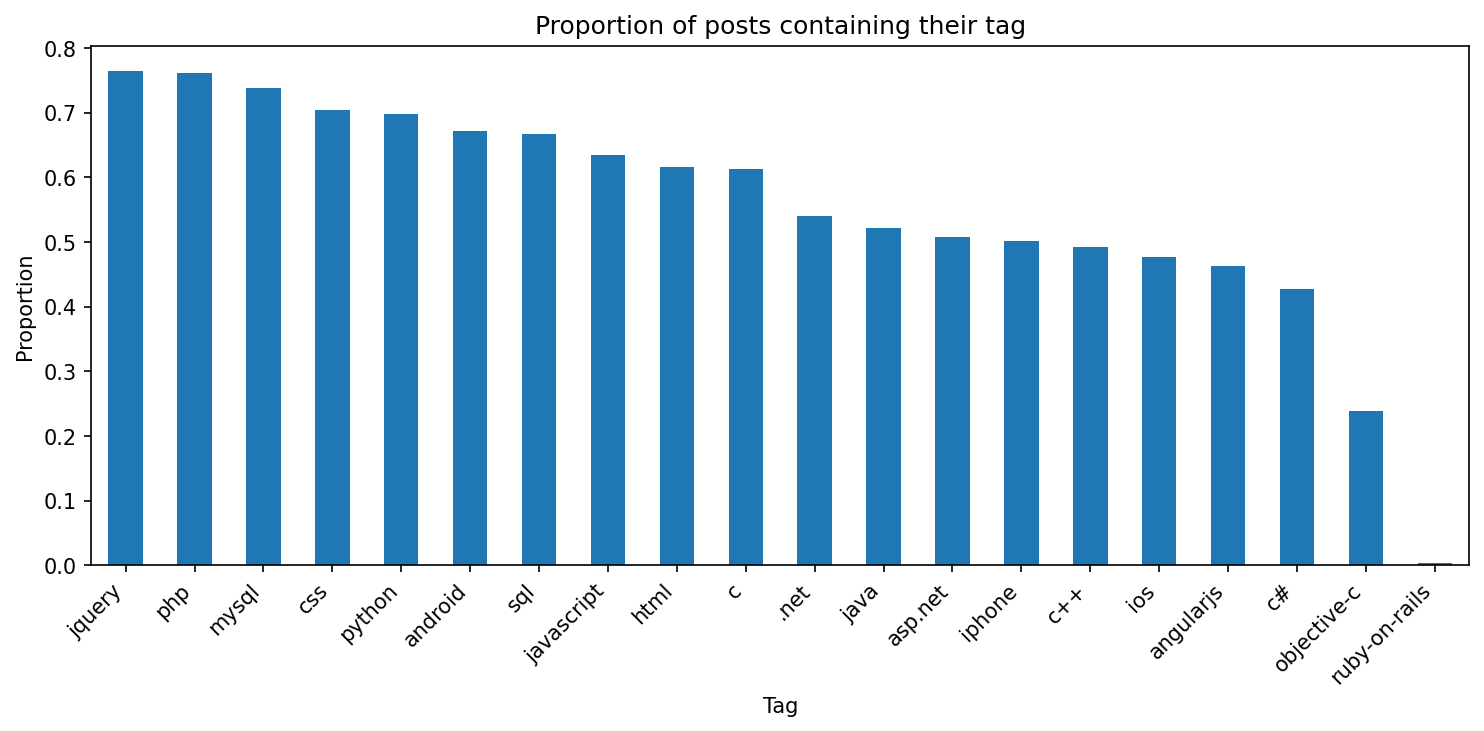
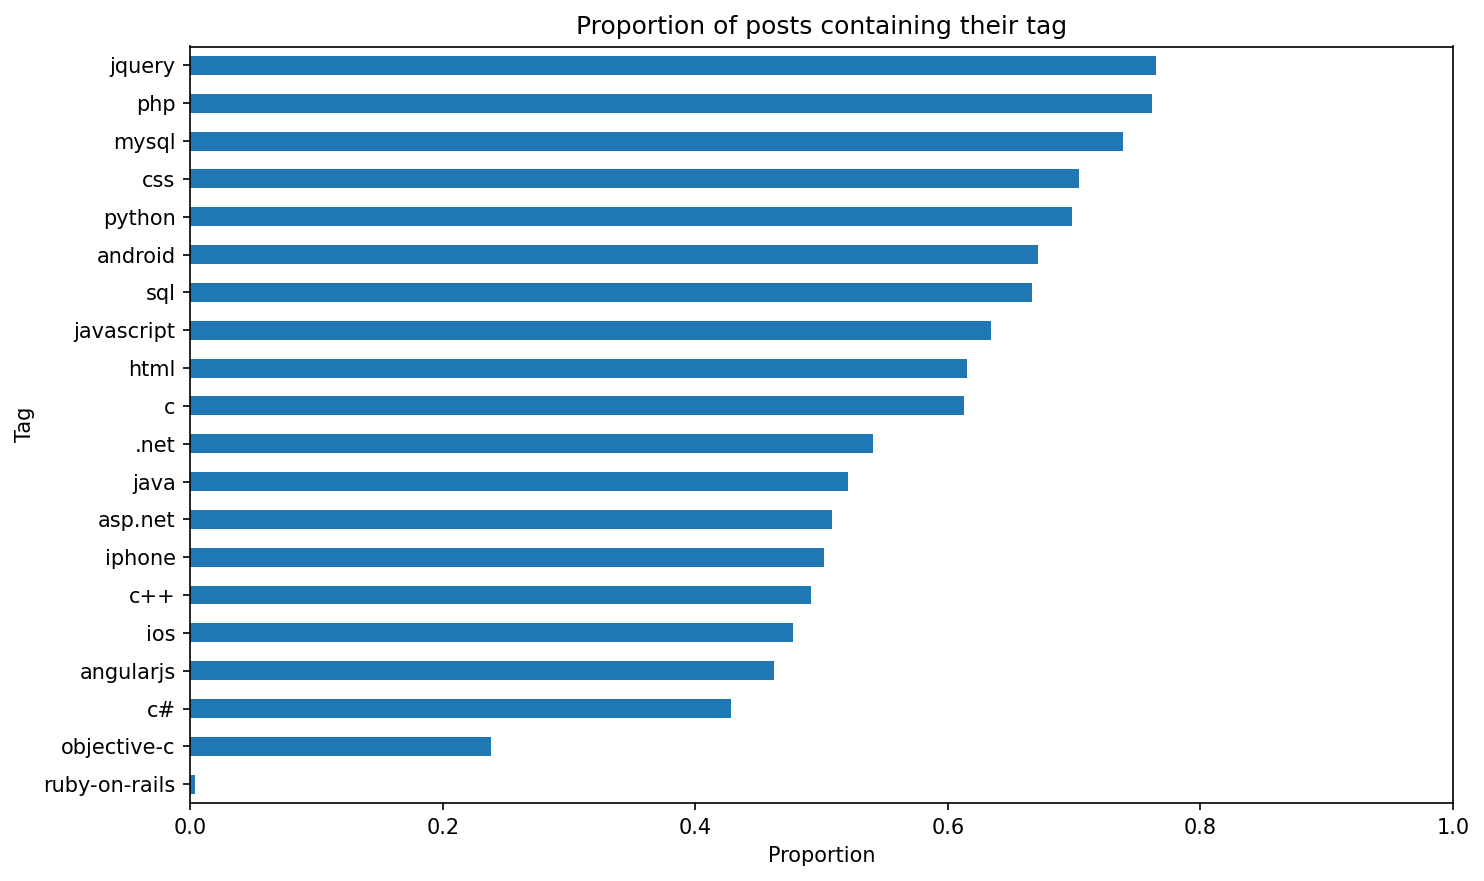
Moved to horizontal bars

diff --git a/0_statistics.py b/0_statistics.py
@@ -89,12 +89,12 @@ def analyze_tag_match(dataframe: pd.DataFrame):
     print("\n==== PROPORTION OF POSTS CONTAINING THEIR TAG ====")
     print(result)
 
-    plt.figure(figsize=(10, 5))
-    result.plot(kind="bar")
+    plt.figure(figsize=(10, 6))
+    result.iloc[::-1].plot(kind="barh")
     plt.title("Proportion of posts containing their tag")
-    plt.xlabel("Tag")
-    plt.ylabel("Proportion")
-    plt.xticks(rotation=45, ha="right")
+    plt.xlabel("Proportion")
+    plt.ylabel("Tag")
+    plt.xlim(0, 1)
     save_plot(OUTPUT_DIR / "tag self mention proportion.png")
 
 
@@ -123,12 +123,13 @@ def analyze_wrong_tag_mentions(dataframe: pd.DataFrame):
     print("\n==== PROPORTION OF WRONG TAG MENTIONS ====")
     print(result)
 
-    plt.figure(figsize=(10, 5))
-    plt.bar(result["tag"], result["proportion_wrong"])
+    plot_frame = result.iloc[::-1]
+    plt.figure(figsize=(10, 6))
+    plt.barh(plot_frame["tag"], plot_frame["proportion_wrong"])
     plt.title("Proportion of posts mentioning a tag where the true tag is different")
-    plt.xlabel("Mentioned tag")
-    plt.ylabel("Proportion with different true tag")
-    plt.xticks(rotation=45, ha="right")
+    plt.xlabel("Proportion with different true tag")
+    plt.ylabel("Mentioned tag")
+    plt.xlim(0, 1)
     save_plot(OUTPUT_DIR / "tag mismatch proportion.png")
 
 
